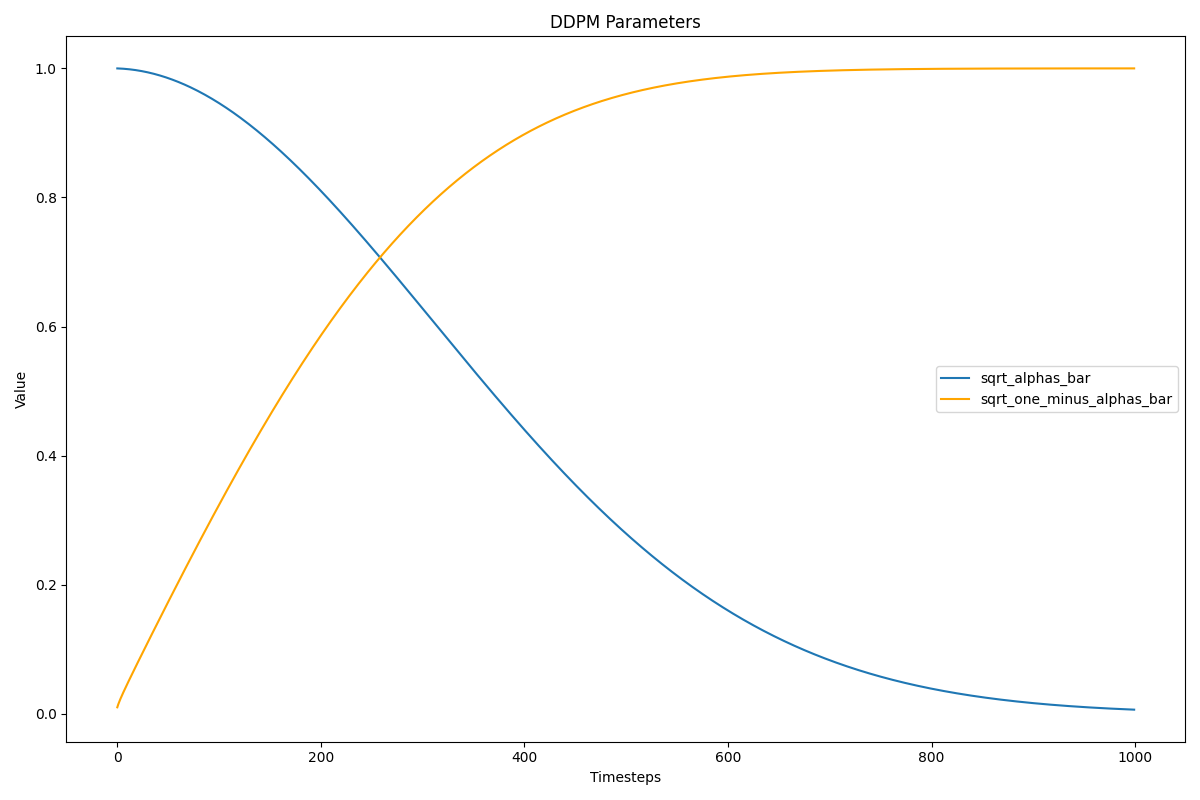
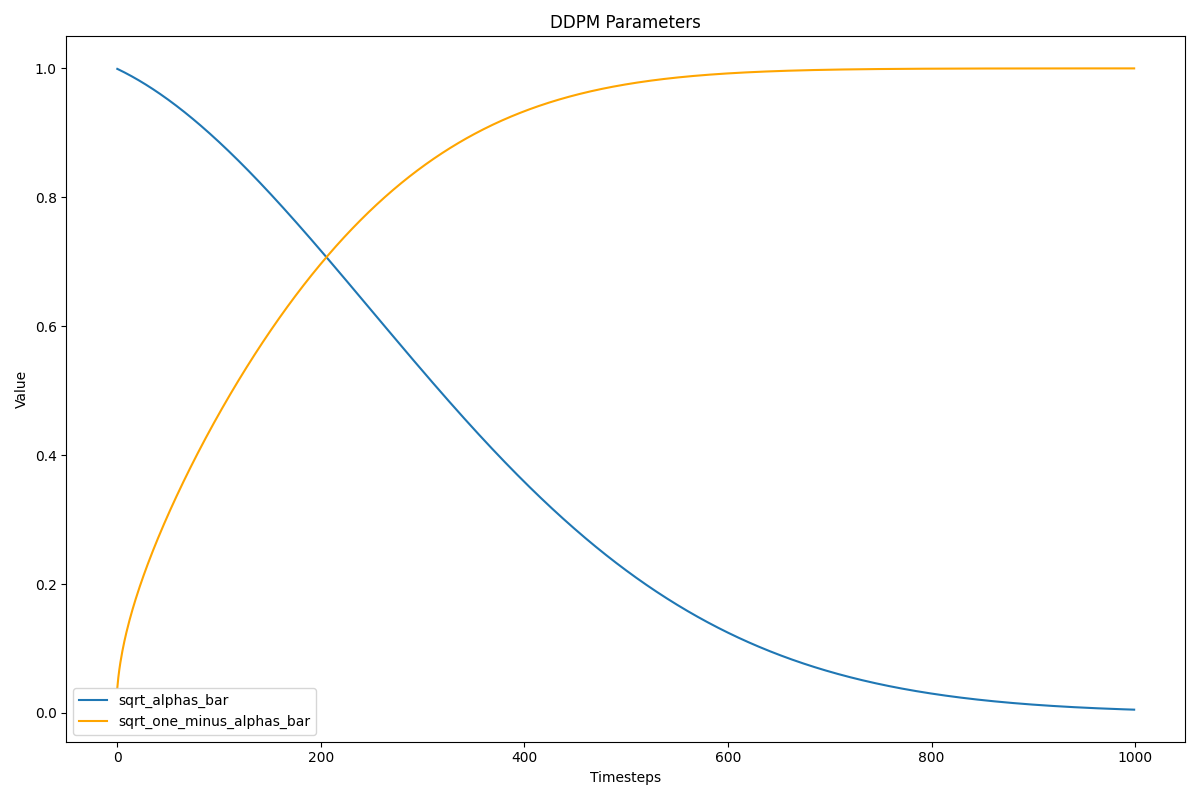
mac

diff --git a/05_tiny_stable_diffusion/01_check.py b/05_tiny_stable_diffusion/01_check.py
@@ -7,23 +7,35 @@ import torch
 from torch.utils.data import DataLoader
 from torchvision import datasets, transforms
 from torchvision.utils import save_image
+import yaml
 
 torch.manual_seed(0)
 batch_size = 128
 n_step = 1000
 n_class = 10
 
+with open('../00_assets/yml/tiny_sd_direct.yml', 'r') as file:
+    config = yaml.safe_load(file)
+
+
+def check_animal_faces():
+    dataloader = animal_faces_loader(config['batch_size'], config['img_size'])
+
+    for images, labels in dataloader:
+        print(images.shape)
+        save_image(tensor=denormalize(images.clone()),
+                   fp=f"../00_assets/image/animal_faces.png",
+                   nrow=6,
+                   padding=0)
+        break
+
 
 def visual_alpha():
-    T = 1000
-    beta_start = 0.0001
-    beta_end = 0.02
-    betas = np.linspace(beta_start, beta_end, T)
+    betas = np.linspace(config['beta_1'], config['beta_T'], config['T'])
     alphas = 1 - betas
     alphas_bar = np.cumprod(alphas)
     sqrt_alphas_bar = np.sqrt(alphas_bar)
     sqrt_one_minus_alphas_bar = np.sqrt(1 - alphas_bar)
-
     plt.figure(figsize=(12, 8))
     plt.plot(sqrt_alphas_bar, label='sqrt_alphas_bar')
     plt.plot(sqrt_one_minus_alphas_bar, label='sqrt_one_minus_alphas_bar', color='orange')
@@ -52,43 +64,28 @@ def check_diffusion_output():
     t = torch.randint(0, n_step, (batch_size,))
     y = torch.randint(0, n_class, (batch_size,))
     x1 = torch.rand(batch_size, 3, 64, 64)
-    diffusion = Diffusion(channel_img=3, channel_multy=[1, 2, 4, 8], num_class=n_class)
+    diffusion = Diffusion(channel_img=config['img_channel'], channel_base=config['channel'],
+                          num_class=config['num_class'], channel_multy=config['channel_multy'],
+                          dropout=config['dropout'])
     x_recon = diffusion(x1, t, y)
     assert x_recon.shape == x1.shape
     print(f"\nnumber of parameters: {sum([p.numel() for p in diffusion.parameters()])}")
 
 
-def check_animal_faces():
-    means = [0.485, 0.456, 0.406]
-    stds = [0.229, 0.224, 0.225]
-    transform = transforms.Compose([
-        transforms.Resize((224, 224)),
-        transforms.ToTensor(),
-        transforms.Normalize(mean=means, std=stds)
-    ])
-    dataset = datasets.ImageFolder(root='../00_assets/datasets/afhq/train', transform=transform)
-    dataloader = DataLoader(dataset, batch_size=36, shuffle=True, num_workers=4)
-
-    for images, labels in dataloader:
-        print(images.shape)
-        save_image(tensor=denormalize(images.clone(), means, stds),
-                   fp=f"../00_assets/image/animal_faces.png",
-                   nrow=6)
-        break
-
-
 def check_warmup():
-    diffusion = Diffusion(channel_img=3, channel_multy=[1, 2, 4, 8], num_class=n_class)
-    optimizer = torch.optim.AdamW(diffusion.parameters(), lr=1e-5, weight_decay=1e-4)
+    diffusion = Diffusion(channel_img=config['img_channel'], channel_base=config['channel'],
+                          num_class=config['num_class'], channel_multy=config['channel_multy'],
+                          dropout=config['dropout'])
+    optimizer = torch.optim.AdamW(diffusion.parameters(), lr=config['lr'], weight_decay=1e-5)
     scheduler = CosineWarmupScheduler(optimizer=optimizer,
-                                      warmup_epochs=7,
-                                      max_lr=1e-4,
-                                      total_epochs=70)
+                                      warmup_epochs=config['epoch'] // 7,
+                                      max_lr=config['max_lr'],
+                                      total_epochs=config['epoch'])
 
-    for epoch in range(70):
+    for epoch in range(config['epoch']):
         optimizer.step()
         current_lr = scheduler.optimizer.param_groups[0]['lr']
-        print(f"epoch: {epoch}, current_lr: {current_lr:.6f}")
+        print(f"epoch: {epoch:03}, current_lr: {current_lr:.7f}")
         scheduler.step()
 
 

diff --git a/05_tiny_stable_diffusion/02_train_direct.py b/05_tiny_stable_diffusion/02_train_direct.py
@@ -6,6 +6,7 @@ from timeit import default_timer as timer
 from torchvision.utils import save_image
 from utils import SamplerDDPM, TrainerDDPM, CosineWarmupScheduler, denormalize, animal_faces_loader
 from diffusion import Diffusion
+import yaml
 
 
 def train(config: Dict):
@@ -32,7 +33,8 @@ def train(config: Dict):
 
     dataloader = animal_faces_loader(config['batch_size'], config['img_size'])
     diffusion = Diffusion(channel_img=config['img_channel'], channel_base=config['channel'],
-                          channel_multy=config['channel_multy'], dropout=config['dropout']).to(device)
+                          num_class=config['num_class'], channel_multy=config['channel_multy'],
+                          dropout=config['dropout']).to(device)
     print('Total trainable parameters:', sum(p.numel() for p in diffusion.parameters() if p.requires_grad))
 
     if config['epoch_awoken'] is not None:
@@ -49,7 +51,7 @@ def train(config: Dict):
 
     optimizer = torch.optim.AdamW(diffusion.parameters(), lr=config['lr'], weight_decay=1e-5)
     scheduler = CosineWarmupScheduler(optimizer=optimizer,
-                                      warmup_epochs=config['epoch'] // 10,
+                                      warmup_epochs=config['epoch'] // 7,
                                       max_lr=config['max_lr'],
                                       total_epochs=config['epoch'])
     trainer = TrainerDDPM(diffusion, config['beta_1'], config['beta_T'], config['T']).to(device)
@@ -58,7 +60,6 @@ def train(config: Dict):
     for epoch in range(config['epoch']):
         start_time = timer()
         losses = 0
-
         for images, labels in dataloader:
             optimizer.zero_grad()
             bs = images.shape[0]
@@ -77,41 +78,21 @@ def train(config: Dict):
         current_lr = scheduler.optimizer.param_groups[0]['lr']
         print(f"Epoch: {epoch}, Train loss: {train_loss:.3f}, "
               f"time: {(end_time - start_time):.3f}s, "
-              f"current_lr: {current_lr:.4f}, config_lr: {config['lr']:.4f}")
+              f"lr_cur: {current_lr:.7f}, lr_base: {config['lr']:.7f}")
 
-        # scheduler.step()
+        scheduler.step()
 
         if train_loss < min_train_loss:
             min_train_loss = train_loss
-            torch.save(diffusion.state_dict(), os.path.join(config['model_dir'], f"ckpt_{base + config['epoch']}.pth"))
+            torch.save(diffusion.state_dict(),
+                       os.path.join(config['model_dir'], f"ckpt_{(base + config['epoch']):03}.pth"))
 
         generate(base + epoch)
 
 
 if __name__ == '__main__':
-    modelConfig = {
-        'epoch': 10,
-        'epoch_awoken': None,
-        'batch_size': 32,
-        'img_channel': 3,
-        'img_size': 64,
-        'num_class': 3,
-        'T': 1000,
-        'beta_1': 0.0015,
-        'beta_T': 0.0195,
-        'channel': 128,
-        'channel_multy': [1, 2, 2, 2],
-        'dropout': 0.1,
-        'lr': 2.0e-06,
-        'max_lr': 1e-4,
-        'grad_clip': 1.,
-        'train_rand': 0.01,
-        'w': 1.8,  # ????
-        'nrow': 7,
-        'model_dir': '../00_assets/model_animal3/'
-    }
+    with open('../00_assets/yml/tiny_sd_direct.yml', 'r') as file:
+        model_config = yaml.safe_load(file)
 
-    os.makedirs(modelConfig['model_dir'], exist_ok=True)
-
-    train(modelConfig)
-
+    os.makedirs(model_config['model_dir'], exist_ok=True)
+    train(model_config)

diff --git a/03_variational_autoencoder/02_train_vae.py b/03_variational_autoencoder/02_train_vae.py
@@ -59,7 +59,7 @@ def train(config: Dict):
         result = torch.cat((images, reconstruction), dim=0)
         result = transforms.Resize((128, 128))(result)
         save_image(tensor=denormalize(result),
-                   fp=f'../00_assets/image/vae_raw_recons_{epoch}.png',
+                   fp=f'../00_assets/image/vae_raw_recons_{epoch:03}.png',
                    nrow=config['batch_size'],
                    padding=0)
 
